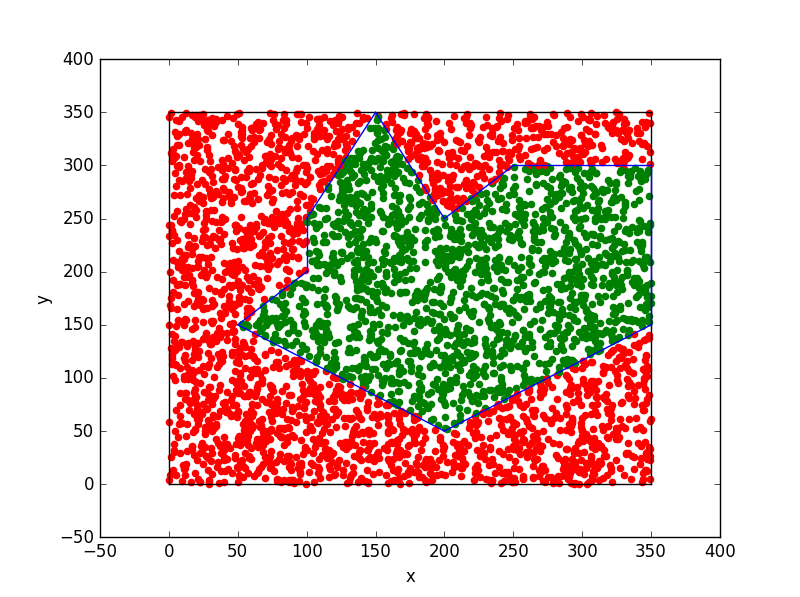
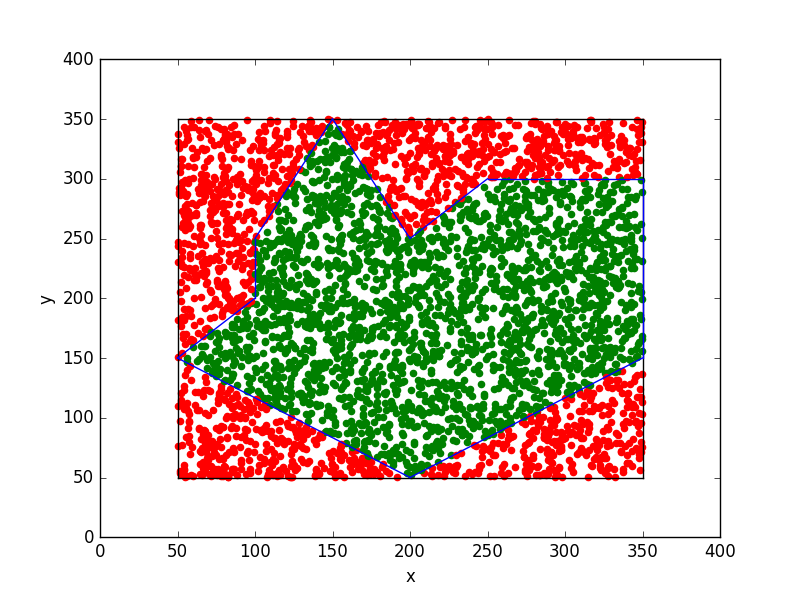
Major update

diff --git a/src/mc_tools.py b/src/mc_tools.py
@@ -6,7 +6,7 @@ import numpy as np
 ################################################################################################################################################################################### 
 class Configuration(object):
     
-    def __init__(self, nb_merges=100, nb_experiments=10, nb_runs=1000, nb_samples=[2**i for i in range(1, 16)]):
+    def __init__(self, nb_merges=128, nb_experiments=16, nb_runs=1024, nb_samples=[2**i for i in range(1, 16)]):
         # Number of merges for bootstrapping
         self.nb_merges = nb_merges
         # Number of experiments to obtain one _beta_ estimator
@@ -21,14 +21,6 @@ class Configuration(object):
 ###################################################################################################################################################################################
 ## Sequential calculation of characteristic values
 ################################################################################################################################################################################### 
-def calculate_bias(f, mean, config=Configuration()):
-    size = len(config.nb_samples)
-    bias = np.zeros((size))
-    for i in range(size):
-        samples = np.array([f(config.nb_samples[i]) for run in range(config.nb_runs)])
-        bias[i] = (np.mean(samples) - mean) / mean #relative bias
-    return bias
-
 def calculate_MSE(f, config=Configuration()):
     size = len(config.nb_samples)
     MSE = np.zeros((size))
@@ -82,12 +74,22 @@ def bootstrap_coefficients(data, config=Configuration()):
 ###################################################################################################################################################################################
 ## Visualization of characteristic values
 ###################################################################################################################################################################################
-def vis_bias(f, mean, config=Configuration()):
+def vis_MSE_and_RMSE(f, config=Configuration()):
     # nb_experiments x len(nb_samples)
-    biass = calculate(f=lambda x: calculate_bias(f=f, mean=mean, config=config), config=config)
+    RMSEs = calculate(f=lambda x: calculate_RMSE(f=f, config=config), config=config)
+    MSEs = RMSEs**2
+    
+    # Bootstrapping coefficients
+    coefficients_RMSE_std = bootstrap_coefficients(RMSEs, config=config)
+    print('RMSE slope std:\t\t' + str(coefficients_RMSE_std[0]))
+    print('RMSE intercept std:\t' + str(coefficients_RMSE_std[1]))
+    coefficients_MSE_std = bootstrap_coefficients(MSEs, config=config)
+    print('MSE slope std:\t\t' + str(coefficients_MSE_std[0]))
+    print('MSE intercept std:\t' + str(coefficients_MSE_std[1]))
     
     # Visualization
-    _vis_bias(name=f.__name__, biass=biass, config=config)
+    _vis_RMSE(name=f.__name__, RMSEs=RMSEs, config=config)
+    _vis_MSE(name=f.__name__,  MSEs=RMSEs**2, config=config)
 
 def vis_MSE(f, config=Configuration()):
     # nb_experiments x len(nb_samples)
@@ -113,23 +115,7 @@ def vis_RMSE(f, config=Configuration()):
     # Visualization
     _vis_RMSE(name=f.__name__, RMSEs=RMSEs, config=config)
 
-def _vis_bias(name, biass, config=Configuration()):
-    plt.figure()
-    
-    # MC data
-    biass_mean = np.mean(biass, axis=0)
-    biass_std  = np.std( biass, axis=0, ddof=1)
-    plt.errorbar(config.nb_samples, biass_mean, yerr=biass_std, ls='None', marker='o', color='g', label=name)
-    
-    plt.title('Bias')
-    plt.xscale('log')
-    plt.xlabel('# samples')
-    plt.ylabel('# bias')
-    plt.legend(loc='center left', bbox_to_anchor=(1, 0.5))
-    
-    plt.savefig('bias_' + name + '.png', bbox_inches='tight')
-
-def _vis_MSE(name, MSEs, config=Configuration()):
+def _vis_MSE(name, MSEs, config=Configuration(), plot=True, save=True):
     plt.figure()
     
     # MC data
@@ -154,9 +140,12 @@ def _vis_MSE(name, MSEs, config=Configuration()):
     plt.ylabel('MSE')
     plt.legend(loc='center left', bbox_to_anchor=(1, 0.5))
     
-    plt.savefig('MSE_' + name + '.png', bbox_inches='tight')
+    if save:
+        plt.savefig('MSE_' + name + '.png', bbox_inches='tight')
+    if not plot:
+        plt.close()
   
-def _vis_RMSE(name, RMSEs, config=Configuration()):
+def _vis_RMSE(name, RMSEs, config=Configuration(), plot=True, save=True):
     plt.figure()
     
     # MC data
@@ -181,4 +170,7 @@ def _vis_RMSE(name, RMSEs, config=Configuration()):
     plt.ylabel('RMSE')
     plt.legend(loc='center left', bbox_to_anchor=(1, 0.5))
     
-    plt.savefig('RMSE_' + name + '.png', bbox_inches='tight')
+    if save:
+        plt.savefig('RMSE_' + name + '.png', bbox_inches='tight')
+    if not plot:
+        plt.close()

diff --git a/src/test.py b/src/test.py
@@ -1,5 +1,5 @@
-from geometry import surface_area_hitmiss, surface_area_exact, pip_cn, pip_wn, pip_path
-from mc_tools import Configuration, vis_bias, vis_MSE, vis_RMSE
+from geometry import surface_area_hitmiss, pip_cn, pip_wn, pip_path
+from mc_tools import Configuration, vis_MSE_and_RMSE
 import numpy as np
 
 ###################################################################################################################################################################################
@@ -7,34 +7,27 @@ import numpy as np
 ################################################################################################################################################################################### 
 def test_polygon1():
     p_vs = [[50.0, 150.0], [200.0, 50.0], [350.0, 150.0], [350.0, 300.0], [250.0, 300.0], [200.0, 250.0], [150.0, 350.0], [100.0, 250.0], [100.0, 200.0]]
-    p_vs = [np.array(v) for v in p_vs]
-    mean = surface_area_exact(p_vs)
-    window = [0.0, 350.0, 0.0, 350.0]
-    return p_vs, mean, window
+    return [np.array(v) for v in p_vs]
     
 def test_polygon2():
     p_vs = [[0.0, 0.0], [1.0, 0.0], [1.0, 1.0], [0.0, 1.0]]
-    p_vs = [np.array(v) for v in p_vs]
-    mean = surface_area_exact(p_vs)
-    window = [0.0, 5.0, 0.0, 5.0]
-    return p_vs, mean, window
+    return [np.array(v) for v in p_vs]
     
 def test(exp=10):
-    p_vs, mean, window = test_polygon1()
+    p_vs = test_polygon1()
     
     config = Configuration()
     config.nb_samples = [2**i for i in range(1, exp+1)]
     
-    def f_cn(s):   return surface_area_hitmiss(f=pip_cn,   p_vs=p_vs, r=window, samples=s, plot=False)
-    def f_wn(s):   return surface_area_hitmiss(f=pip_wn,   p_vs=p_vs, r=window, samples=s, plot=False)
-    def f_path(s): return surface_area_hitmiss(f=pip_path, p_vs=p_vs, r=window, samples=s, plot=False)
+    def f_cn(s):   return surface_area_hitmiss(f=pip_cn,   p_vs=p_vs, samples=s, plot=False)
+    def f_wn(s):   return surface_area_hitmiss(f=pip_wn,   p_vs=p_vs, samples=s, plot=False)
+    def f_path(s): return surface_area_hitmiss(f=pip_path, p_vs=p_vs, samples=s, plot=False)
     
     for f in [f_cn, f_wn, f_path]:
-        vis_MSE( f=f, config=config)
-        vis_RMSE(f=f, config=config)
+        vis_MSE_and_RMSE(f=f, config=config)
         
 def test_border():
-    p_vs, mean, window = test_polygon2()
+    p_vs, mean = test_polygon2()
     
     vertices = [np.array([0.0, 0.0]), np.array([1.0, 0.0]), np.array([1.0, 1.0]), np.array([0.0, 1.0])]
     edges    = [np.array([0.0, 0.5]), np.array([1.0, 0.5]), np.array([0.5, 0.0]), np.array([1.0, 0.5])]

diff --git a/src/geometry.py b/src/geometry.py
@@ -58,18 +58,21 @@ def pip_path(p, p_vs):
 ###################################################################################################################################################################################
 ## Surface Area
 ###################################################################################################################################################################################     
-def surface_area_hitmiss(f, p_vs, r, samples=1000, plot=True, plotter=None):
+def surface_area_hitmiss(f, p_vs, r=None, samples=1000, rng=np.random, plot=True, plotter=None):
+    if r is None:
+        r = reduce(lambda acc, v: [min(acc[0], v[0]), max(acc[1], v[0]), min(acc[2], v[1]), max(acc[3], v[1])], p_vs, [np.inf, -np.inf, np.inf, -np.inf])
+    window_x = (r[1] - r[0])
+    window_y = (r[3] - r[2])
+    
     if plot and plotter is None:
         plotter = Plotter2D()
     if plot:
         plotter.plot_AABB([r[0], r[2]], [r[1], r[3]], color='k')
         plotter.plot_contour(p_vs, color='b')
     
-    window_x = (r[1] - r[0])
-    window_y = (r[3] - r[2])
     p_in = 0
     for s in range(samples):
-        p = np.random.random((2))
+        p = rng.random((2))
         p[0] = p[0] * window_x + r[0]
         p[1] = p[1] * window_y + r[2]
         if f(p, p_vs):
